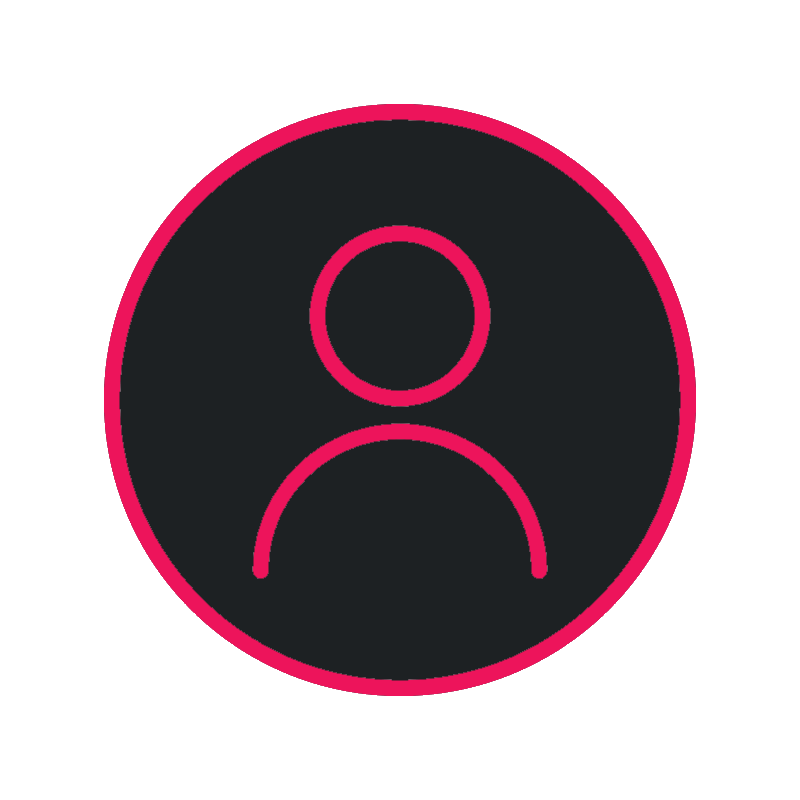
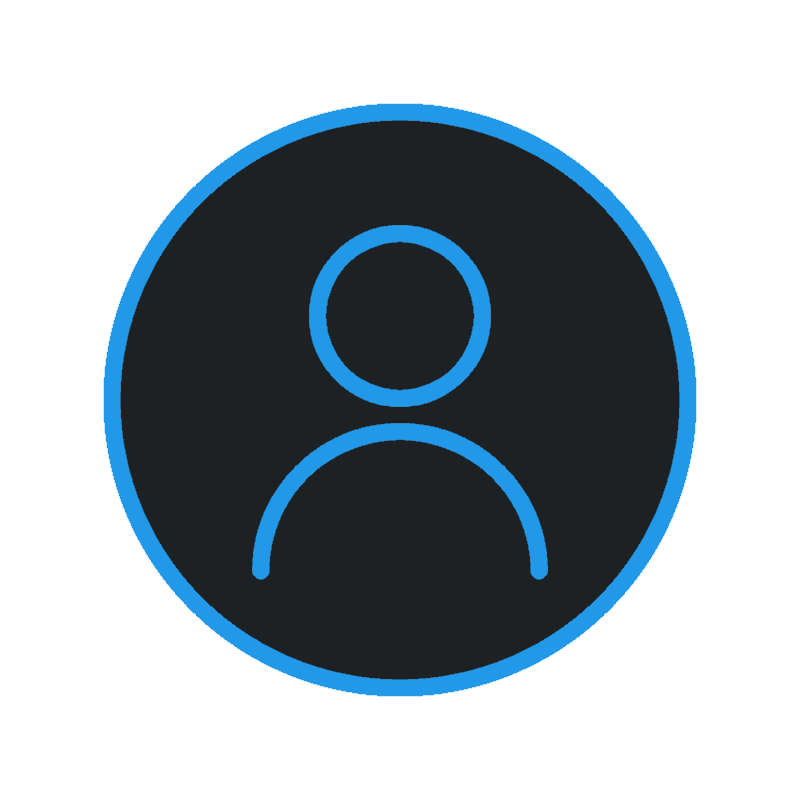
lista de amigos

Changed region(s): [[0.125, 0.125, 0.875, 0.875], [0.3125, 0.2812, 0.6875, 0.7188]]

diff --git a/src/app/component/painel/painel.component.html b/src/app/component/painel/painel.component.html
@@ -1,7 +1,7 @@
 <div class="main">
 
     <div class="graphics">
-        <h1>Grafico da quantidade de Amigos</h1>
+        <h1>Gráfico da quantidade de Amigos</h1>
 
         <div>
             <canvas #meuCanvas></canvas>
@@ -9,7 +9,31 @@
     </div>
 
     <div class="list">
-        <h1>list</h1>
+        <h1>Lista de Amigos</h1>
+        <div>
+            <table class="table">
+                <thead>
+                    <tr>
+                        <th scope="col">Nome</th>
+                        <th scope="col">Telefone</th>
+                        <th scope="col">Email</th>
+                    </tr>
+                </thead>
+                <tbody>
+                    <tr *ngFor="let friend of friends.value.resFriend | paginate: { itemsPerPage: contador, currentPage: paginaAtual }">
+                        <td>{{friend.name}}</td>
+                        <td>({{friend.ddd}}) {{friend.phone}}</td>
+                        <td>{{friend.email}}</td>
+                    </tr>
+                </tbody>
+            </table>
+        </div>
+
+        <div class="text-right">
+            <pagination-controls class="my-pagination" (pageChange)="paginaAtual = $event" previousLabel="Anterior" nextLabel="Próximo">
+            </pagination-controls>
+        </div>
+
     </div>
 
 </div>

diff --git a/src/app/page/login/login.component.css b/src/app/page/login/login.component.css
@@ -24,7 +24,7 @@
 h2 {
     margin: 0;
     padding: 0 0 20px;
-    color: #ed145b;
+    color: #2199e8;
     text-align: center;
 }
 
@@ -43,7 +43,7 @@ h2 {
 .loginBox input[type="text"],
 .loginBox input[type="password"] {
     border: none;
-    border-bottom: 1px solid #ed145b;
+    border-bottom: 1px solid #2199e8;
     background: transparent;
     outline: none;
     height: 25px;
@@ -61,7 +61,7 @@ h2 {
     height: 40px;
     color: #ccc;
     font-size: 16px;
-    background: #ed145b;
+    background: #2199e8;
     cursor: pointer;
     border-radius: 5px;
 }
@@ -74,7 +74,7 @@ h2 {
 }
 
 .loginBox .msg {
-    color: #ed145b;
+    color: #2199e8;
     font-size: 14px;
     cursor: pointer;
     text-decoration: none;
@@ -90,9 +90,9 @@ h2 {
 
 .loginBox .spinner {
     margin-left: 40%;
-    color: #ed145b;
+    color: #2199e8;
 }
 
 .loginBox a:hover {
-    color: #ed145b;
+    color: #2199e8;
 }

diff --git a/src/app/page/dashboard/dashboard.component.css b/src/app/page/dashboard/dashboard.component.css
@@ -31,7 +31,7 @@ header {
 }
 
 .left_area span {
-    color: #ed145b;
+    color: #2199e8;
 }
 
 .logout_btn {
@@ -44,13 +44,13 @@ header {
     border-radius: 2px;
     font-size: 15px;
     font-weight: 600;
-    color: #ed145b;
+    color: #2199e8;
     transition: 0.5s;
     transition-property: background;
 }
 
 .logout_btn:hover {
-    background: #ed145b;
+    background: #2199e8;
     color: #ccc;
 }
 
@@ -93,7 +93,7 @@ header {
 }
 
 .sidebar .menuSelected {
-    color: #ed145b;
+    color: #2199e8;
 }
 
 .sidebar span {
@@ -103,7 +103,7 @@ header {
 }
 
 .sidebar a:hover {
-    background: #ed145b;
+    background: #2199e8;
     color: #dcc;
 }
 
@@ -125,7 +125,7 @@ label #sidebar__btn {
 }
 
 label #sidebar__btn:hover {
-    color: #ed145b;
+    color: #2199e8;
 }
 
 #check:checked~.sidebar {

diff --git a/src/app/app.module.ts b/src/app/app.module.ts
@@ -10,9 +10,12 @@ import { BrowserAnimationsModule } from '@angular/platform-browser/animations';
 import { ReactiveFormsModule } from '@angular/forms';
 import { HttpClientModule } from '@angular/common/http';
 
-import { MatIconModule } from '@angular/material/icon';
 import { PainelComponent } from './component/painel/painel.component';
 import { FriendComponent } from './component/friend/friend.component';
+
+import { NgxPaginationModule } from 'ngx-pagination';
+
+import { MatIconModule } from '@angular/material/icon';
 
 @NgModule({
   declarations: [
@@ -28,6 +31,7 @@ import { FriendComponent } from './component/friend/friend.component';
     BrowserAnimationsModule,
     ReactiveFormsModule,
     HttpClientModule,
+    NgxPaginationModule,
 
     MatIconModule
   ],

diff --git a/src/app/component/painel/painel.component.ts b/src/app/component/painel/painel.component.ts
@@ -17,6 +17,9 @@ export class PainelComponent implements OnInit {
   qtdFriends: any = [];
   loadingGraphic = false;
 
+  paginaAtual = 1;
+  contador = 10;
+
   months: any = [
     { id: 1, qtd: 0 },
     { id: 2, qtd: 0 },
@@ -78,13 +81,14 @@ export class PainelComponent implements OnInit {
           {
             hoverBackgroundColor: '#000',
             data: this.qtdFriends,
-            borderColor: '#ed145b',
-            backgroundColor: '#ed145b',
+            borderColor: '#2199e8',
+            backgroundColor: '#2199e8',
             label: 'Amigos'
           }
         ]
       }
     });
   }
+
 
 }

diff --git a/src/app/component/painel/painel.component.css b/src/app/component/painel/painel.component.css
@@ -19,10 +19,26 @@
 }
 
 .main .list {
-    background: red;
+    background: #22242a;
     width: 49%;
     height: 100%;
     float: left;
     padding: 10px;
     text-align: center;
+}
+
+.list h1 {
+    color: #ccc;
+}
+
+.list .table thead {
+    color: #2199e8;
+}
+
+.list .table tbody {
+    color: #ccc;
+}
+
+.list pagination-controls {
+    color: #ccc;
 }
